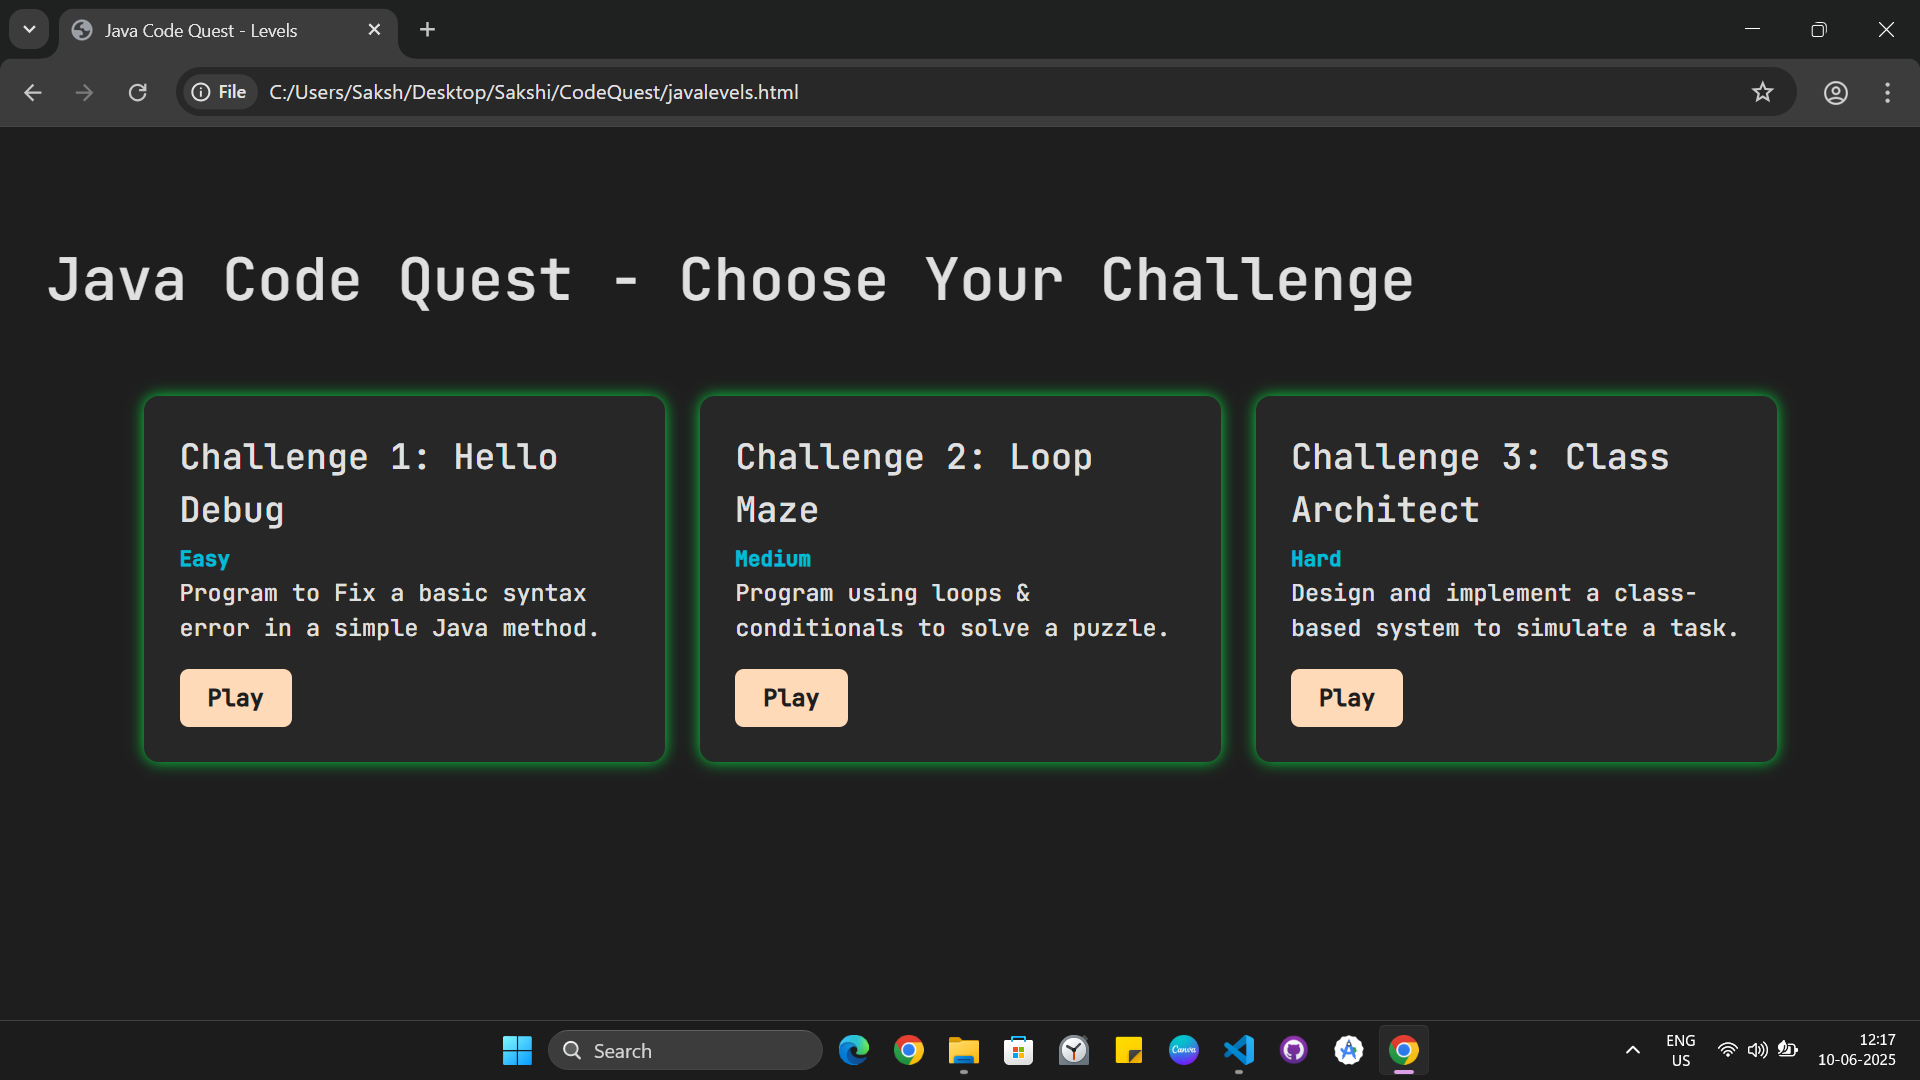
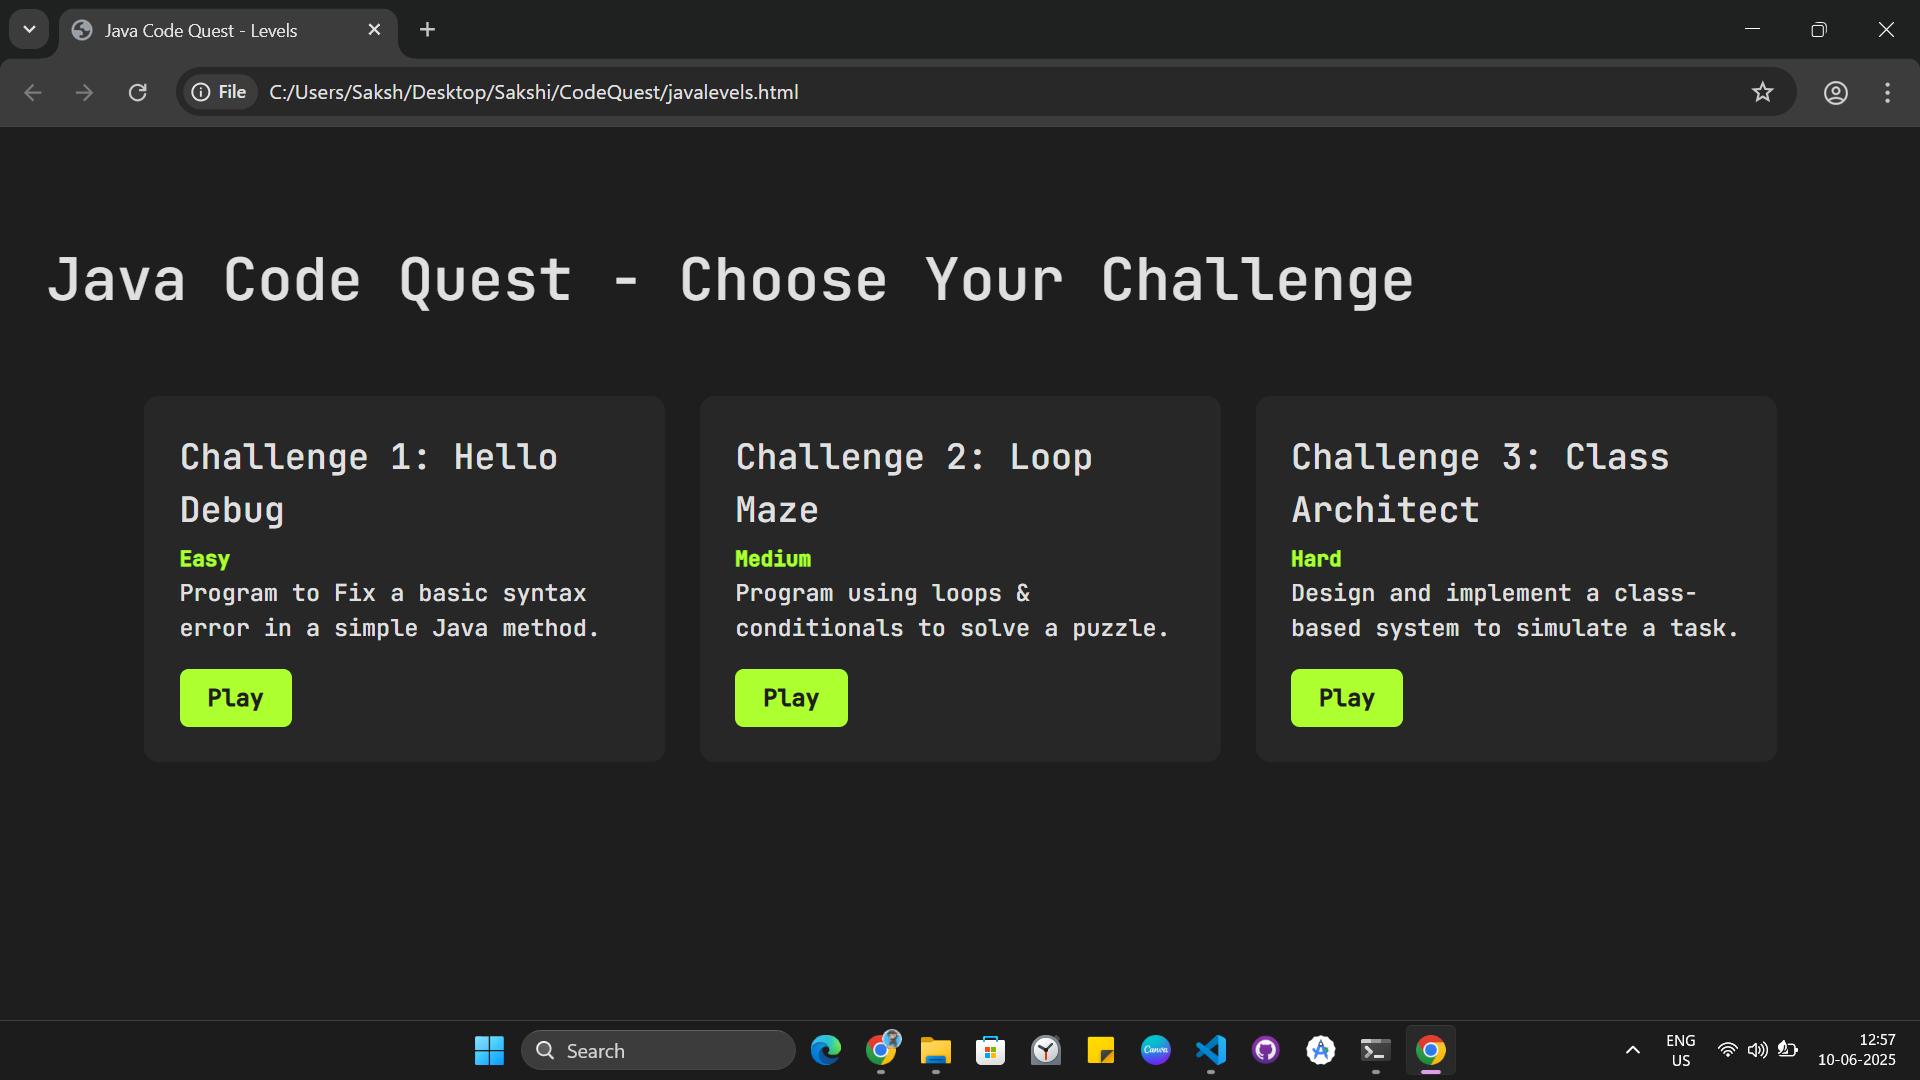
Updated README

diff --git a/pylevels.html b/pylevels.html
@@ -1,5 +1,6 @@
 <!DOCTYPE html>
 <html lang="en">
+
 <head>
   <meta charset="UTF-8">
   <title>Python Levels</title>
@@ -14,7 +15,8 @@
       font-family: 'JetBrains Mono', monospace;
       margin: 5rem;
       /* padding: 2rem; */
-      overflow: hidden; /* Remove scrollbars */
+      overflow: hidden;
+      /* Remove scrollbars */
       min-height: 100vh;
       display: flex;
       flex-direction: column;
@@ -29,7 +31,8 @@
 
     .card-container {
       display: flex;
-      justify-content: center; /* Center cards */
+      justify-content: center;
+      /* Center cards */
       align-items: center;
       gap: 2rem;
       flex-wrap: nowrap;
@@ -59,7 +62,7 @@
     .difficulty {
       font-weight: bold;
       font-size: 0.95rem;
-      color: #54d708;
+      color: #ffc107;
       margin-bottom: 1rem;
     }
 
@@ -85,11 +88,13 @@
       background-color: rgb(203, 136, 203);
       color: white;
     }
-    .h1{
-        margin: 40px;
+
+    .h1 {
+      margin: 40px;
     }
   </style>
 </head>
+
 <body>
 
   <h1 class="h1">🐍 Python Code Quest - Choose Your Challenge</h1>
@@ -134,4 +139,5 @@
   </script>
 
 </body>
+
 </html>

diff --git a/javalevels.html b/javalevels.html
@@ -43,11 +43,11 @@
     .difficulty {
       font-weight: bold;
       font-size: 0.9rem;
-      color: #00bcd4;
+      color: greenyellow;
     }
 
     .btn-play {
-      background-color: peachpuff;
+      background-color: greenyellow;
       border: none;
       color: #1e1e1e;
       font-weight: bold;
